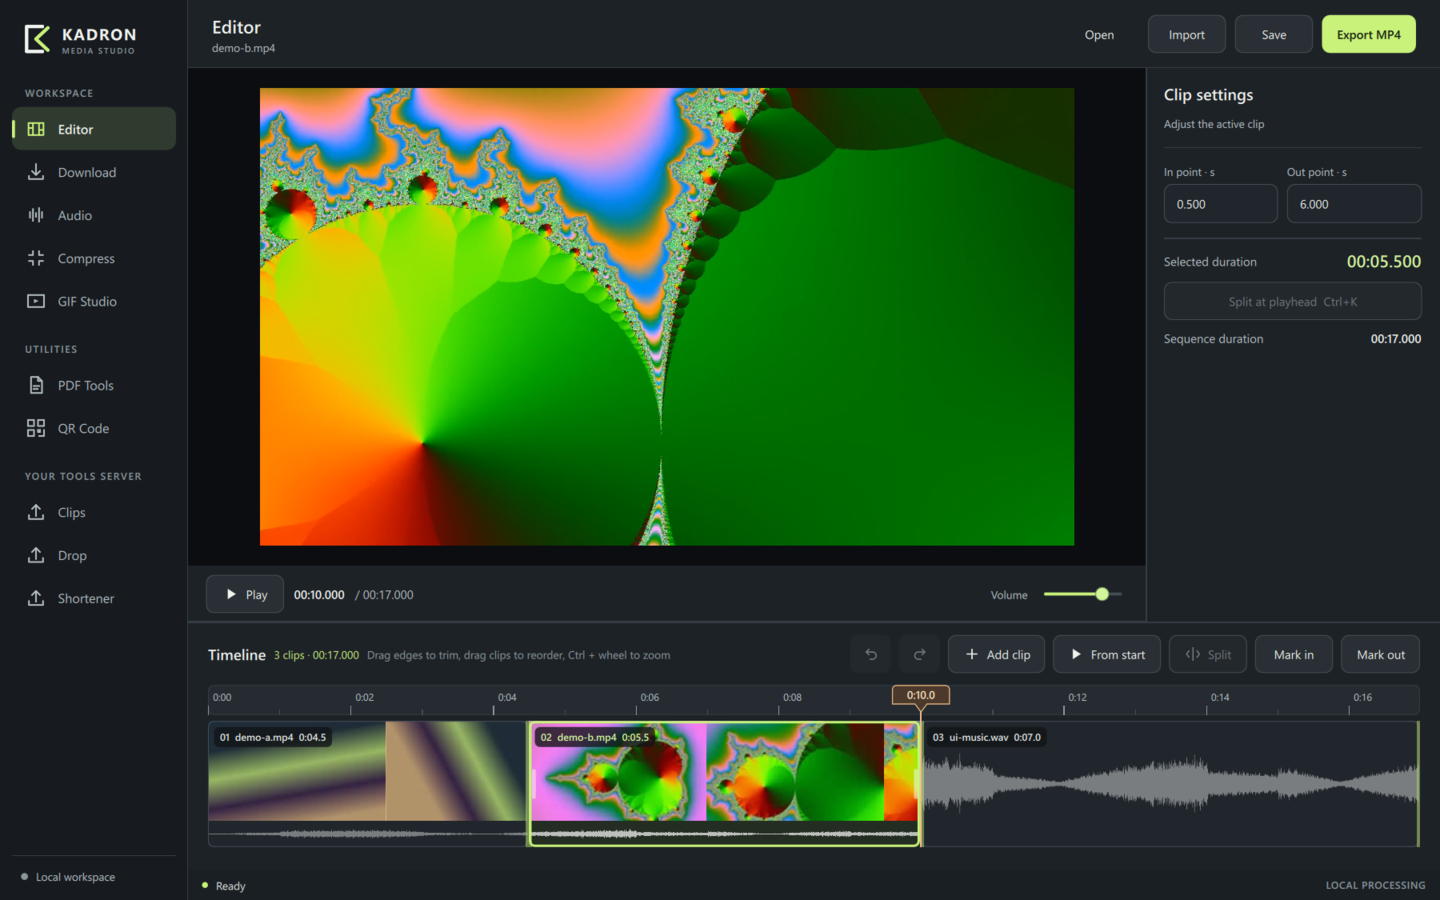
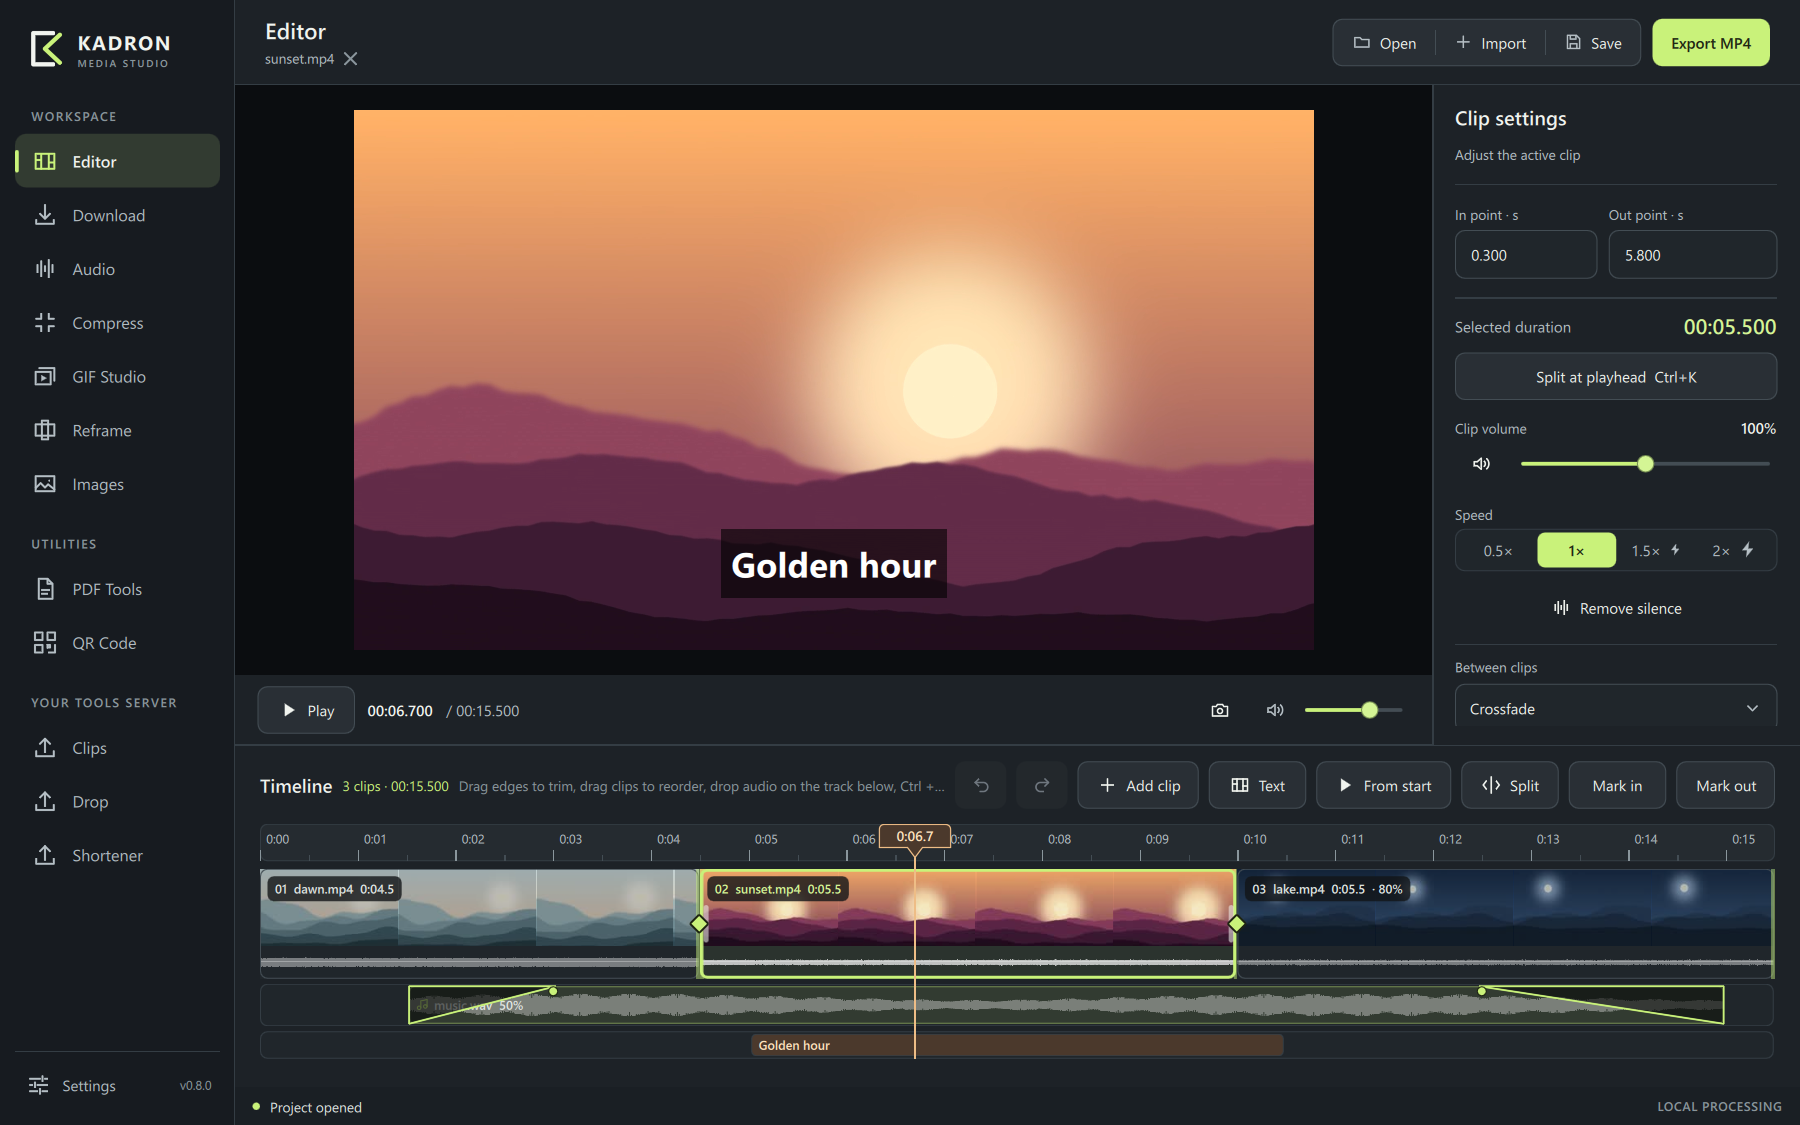
docs: README with new screenshots, Reframe and Images among them; editor captions, speed and silence removal; new Audio and GIF options

diff --git a/README.md b/README.md
@@ -10,7 +10,7 @@
 </p>
 
 <p align="center">
-  <img src="docs/screenshots/editor.png" alt="Kadron editor with a three-clip sequence on the timeline">
+  <img src="docs/screenshots/editor.png" alt="Kadron editor with three clips, a music track and a caption on the timeline">
 </p>
 
 ## What it does
@@ -20,7 +20,10 @@
 - Drag a block's edge to trim it; the monitor previews the new frame, and the cut stays reversible until you release.
 - Drag blocks to reorder them, split at the playhead, and undo or redo any edit.
 - Scrubbing lands on the exact frame, and playback runs across the whole sequence.
-- Set each clip's volume (up to 200%) or mute it, and let clips meet with a cut, a fade through black or a crossfade.
+- Set each clip's volume (up to 200%) or mute it, play it at 0.5× to 2×, and let clips meet with a cut, a fade through black or a crossfade.
+- **Remove silence** cuts the quiet stretches out of a clip in one step.
+- Put text over the video: drag a caption where it should sit, stretch it on its own track for as long as it shows, and pick a font and an outline, box or shadow.
+- The camera button under the monitor (or `Ctrl+Shift+S`) saves the current frame as an image.
 - Lay music and sounds on the audio track under the clips: drop in as many files as you like, drag each to where it should play (it snaps to joins, the playhead and other sounds), trim its edges and drag its corners to fade it in and out. Each has its own volume, the track can duck under the clips' own sound, and anything still playing at the end fades out.
 - Export the sequence as MP4 on the GPU (NVIDIA NVENC, Intel Quick Sync or AMD AMF, whichever works on your machine) or on the CPU. If the GPU encoder fails mid-export, Kadron finishes on the CPU. Projects are saved as `.kadr` files.
 - Preview volume is shared by the editor and the tools, and remembered.
@@ -36,8 +39,8 @@
 
 | Tool | What you get |
 | --- | --- |
-| Audio | Trim on the waveform, play the selection, then convert to MP3, WAV, FLAC or Opus, with optional loudness normalization |
-| GIF Studio | Choose a range on a filmstrip with a looping preview; set frame rate, width, and a size limit |
+| Audio | Trim on the waveform, play the selection, then convert to MP3, AAC, Opus, WAV or FLAC at a chosen bitrate, with the output size estimated before you start. Under *More options*: fade in and out, a loudness target (Podcast, Music, Loud), mono, and exact start and end times |
+| GIF Studio | Choose a range on a filmstrip with a looping preview; pick the size, smoothness and a file size limit while a meter shows the clip and the GIF it becomes. Under *More options*: speed, bounce (forward then back) and play once |
 | Compress | Shrink video or images, optionally to a target file size |
 | Reframe | Turn a landscape video into 9:16, 1:1, 4:5 or 16:9. Either a crop that follows the action (move the frame at different moments and it eases between those keyframes, with a live preview of the result) the whole picture over a blurred copy of itself, or a split screen that stacks two regions, such as a streamer's webcam (any size and place) above the game. Exports 1080p MP4 |
 | Images | Convert a batch of photos between JPG, PNG, WebP and AVIF (HEIC in), resize them, fit them under a file size, crop with aspect presets, rotate and flip; compare before and after. Shows the camera, date and GPS location a photo carries; saved copies have no metadata |
@@ -49,11 +52,15 @@ Nothing leaves your machine unless you ask it to. **Clips**, **Drop**, and **Sho
 
 <table>
   <tr>
-    <td><img src="docs/screenshots/audio.png" alt="Audio trimmer with a waveform selection"></td>
-    <td><img src="docs/screenshots/gif.png" alt="GIF Studio with a range on the filmstrip"></td>
+    <td><img src="docs/screenshots/reframe.png" alt="Reframe cropping a landscape video to 9:16"></td>
+    <td><img src="docs/screenshots/images.png" alt="Images with a batch of photos and crop handles"></td>
   </tr>
   <tr>
-    <td><img src="docs/screenshots/pdf.png" alt="Visual PDF page editor"></td>
+    <td><img src="docs/screenshots/gif.png" alt="GIF Studio with a range on the filmstrip and the size meter"></td>
+    <td><img src="docs/screenshots/audio.png" alt="Audio converter with a waveform selection and size estimate"></td>
+  </tr>
+  <tr>
+    <td><img src="docs/screenshots/pdf.png" alt="PDF Tools with a document ready to edit"></td>
     <td><img src="docs/screenshots/qr.png" alt="QR code with a live preview"></td>
   </tr>
 </table>
